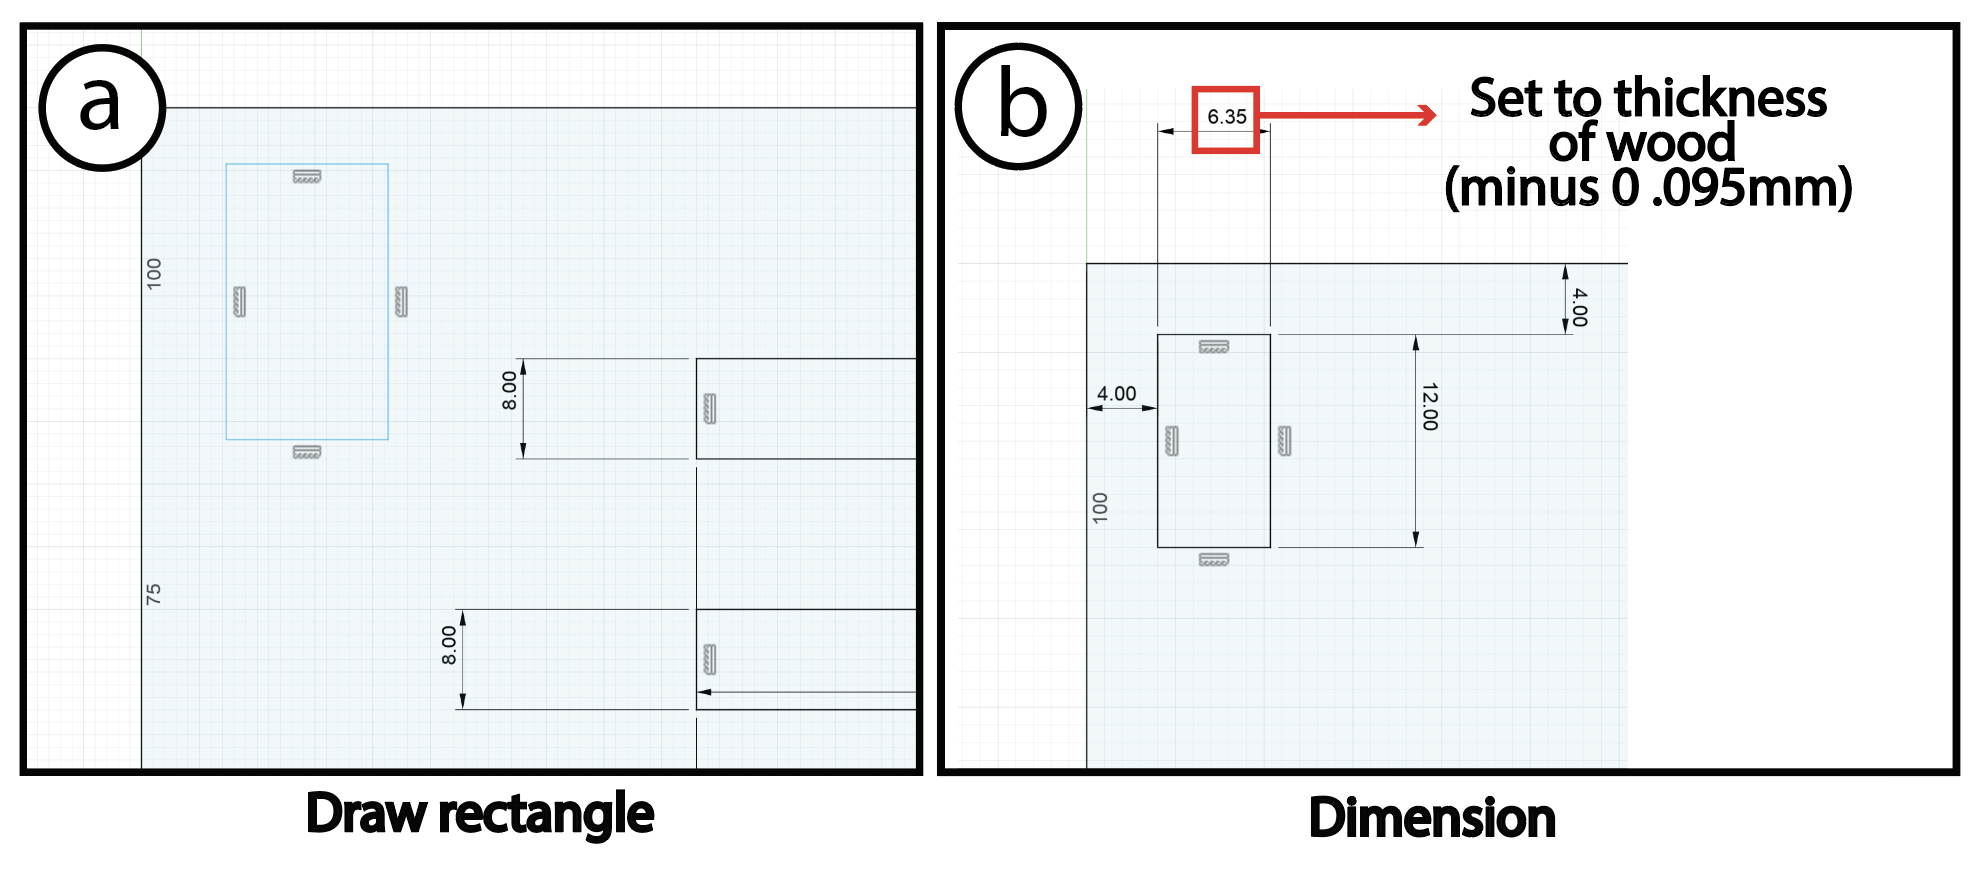
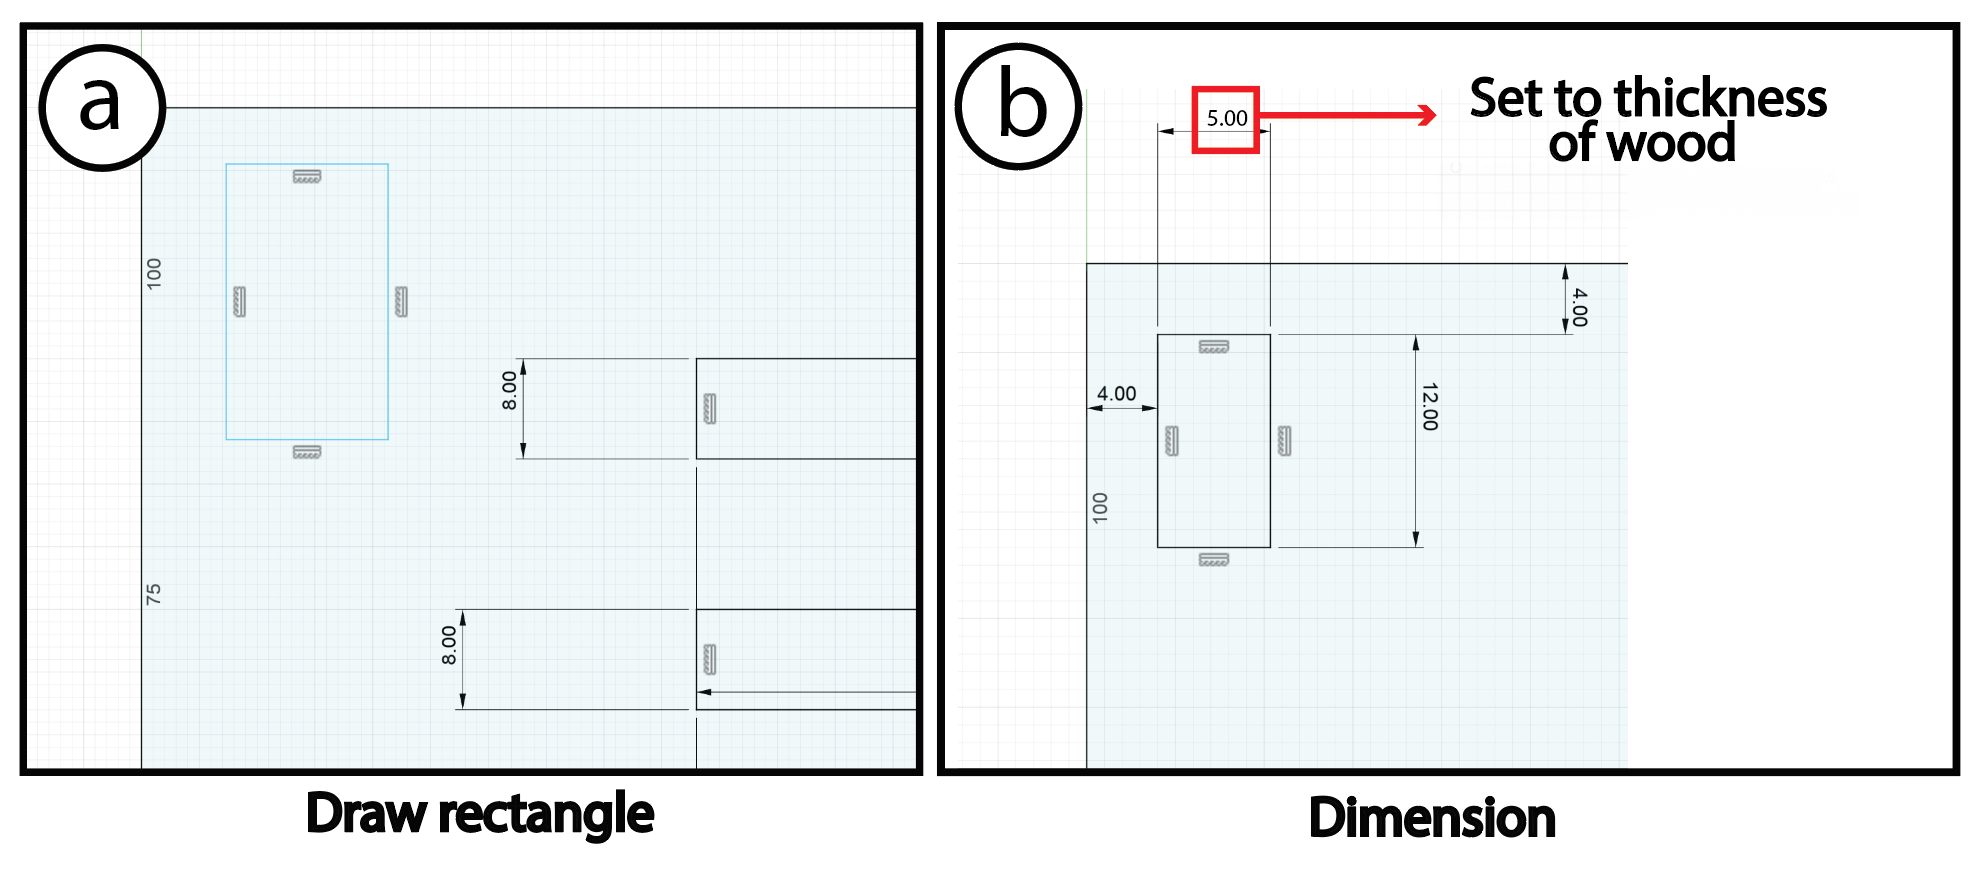
edit lab 1

Changed region(s): [[0.7093, 0.1862, 0.956, 0.2483], [0.5859, 0.0931, 0.7401, 0.1862]]

diff --git a/labs/advanced/lab1.html b/labs/advanced/lab1.html
@@ -439,7 +439,7 @@
 
         <ol>
         <li> <strong>Draw Aligenment Construction Line :</strong> Create two vertical construction lines that are 4mm away from the edge of the calendar body.</li>
-        <li><strong>Extrude the triangle :</strong> Extrude the triangle to the thickness of the wood piece provided to you. Here, we were using 0.25" wood stock.</li>
+        <li><strong>Extrude the triangle :</strong> Extrude the triangle to the thickness of the wood piece provided to you (in your lab, it will be 6mm). In the video and at MIT, we were using 0.25" wood stock.</li>
         <li><strong>Extrude the calendar body:</strong> Following the same steps above, extrude the calendar body.</li>
         <li><strong>Align the hypotenuse to the face of the calendar:</strong> Select the face created by the triangle hypotenuse, hold shift, select the calendar's face, right click on "Align".</li>
         <li><strong>Align the edge of the trinagular base to the edge of the calendar:</strong>  Select and align.</li>
@@ -472,7 +472,7 @@
             
             <strong> Click on the Plug-in :</strong> Click on the "Finger Joint" plug-in, which should be under modify in the solid tab</li>
         <li> <strong> Select the bodies :</strong> Select the two bodies, and set the direction of joint to the edge of the finger joint you created on the triangle in part (4).</li>
-        <li> <strong> Finger Settings :</strong> Set finger placement to outside, number to fixed (set to 2), size to equal notch and finger size, and gap to part to the "kerf" of your lasercutter. Here, our lasercutter kerf is 0.2mm.</li>
+        <li> <strong> Finger Settings :</strong> Set finger placement to outside, number to fixed (set to 2), size to equal notch and finger size, and gap to part to the "kerf" of your lasercutter (at AUBH, it is 0.125mm). At MIT, our lasercutter kerf was 0.2mm.</li>
         <li> <strong> Click Ok :</strong> Click Ok to create the joints.</li>
 
 
@@ -639,7 +639,7 @@
             file that we can open our DXF in it, and interface with the lasercutter. </p>
             
             <p> Your instructors will demonstrate to you what vector vs. raster files are, and how to set-up files for 
-            lasercutting. You may skip reading this scetion and just <strong> head to D-Lab. 😎</strong></p>   
+            lasercutting. You may skip reading this section and just <strong> head to D-Lab. 😎</strong></p>   
             For your future reference, we will provide some insructions below on how to create an image for "vector cutting" vs. 
             "rastering/engraving": 
             <br> 
@@ -660,7 +660,7 @@
 
             Below is a summary of what makes something cut as vector and something as raster-- we also provide some examples in the graphic below: 
             
-                                <img src=media/vector:raster.png class="rounded mx-auto d-block img-fluid"> 
+                                <img src=media/vector_raster.png class="rounded mx-auto d-block img-fluid"> 
 
                             
                 <br> 

diff --git a/labs/beginner/lab3.html b/labs/beginner/lab3.html
@@ -147,8 +147,8 @@
                     
     
                                 
-               <h4>Part (4): Sandable Epoxy  </h4>
-                    <img src=media/spray-paint-1-color.png class="rounded mx-auto d-block img-fluid"> 
+               <h4>Part (2): Sandable Epoxy  </h4>
+                    <img src=media/placeholder.png class="rounded mx-auto d-block img-fluid"> 
 
 
 
@@ -157,11 +157,31 @@
                <h4>Part (3): Spray Painting  </h4>
                     <img src=media/spray-paint-1-color.png class="rounded mx-auto d-block img-fluid"> 
 
+                
+                <ol> 
+                <li> wear the appropriate PPE (mask, goggles, lab coat, nitrile gloves etc).</li>
+                <li> If you are using the airbrush, turn it on to let it reach the appropriate air pressure.</li>
+                <li> Place a paper mat underneath your part to ensure a clean environment.</li>
+               <li> Ensure that your part is clean and doesn't have any debris on it-- you may clean with a wet towel.</li>
+               <li> Spary an even layer of primer first on all visible sides. Follow your instructor's demo on good spray painting procedure. Leave it to dry</li>
+               <li> Move your part so you spary a layer of primer  on all the remaining sides. Leave it to dry</li>
+               <li> repeat steps 5-6 but with your choice of spray paint.</li>
+
+
+                
+                </ol>
 
 
                            <hr> 
                 
                     <h4>Part (5): Masks & Spray Painting </h4>
+
+                
+                You may also be creative with your spray painting by introducing some masking techniques to spray paint select areas. 
+                To do so, export dxf masks by following the video below. You will laser cut the mask. 
+                
+                                    <img src=media/placeholder.png class="rounded mx-auto d-block img-fluid"> 
+
 
                     <img src=media/mask-pt1.png class="rounded mx-auto d-block img-fluid"> 
                     <img src=media/mask-pt2.png class="rounded mx-auto d-block img-fluid"> 
@@ -180,10 +200,24 @@
                 
                 
                 <hr> 
-        <h4>Part (5): Bondo Fillers for Smoothing (🚨REMIX🚨) (20 minutes)</h4>
+        <h4>Part (5): Bondo Fillers for Smoothing (20 minutes)</h4>
 
+                
+                
+                <hr> 
+                
+                
+                        <h4>Part (6)- EXTRA: Heating to release internal stresses (20 minutes)</h4>
         <hr> 
                 
+                
+      <h4>Part (7)- EXTRA: Coating for Food Safe Applications (20 minutes)</h4>
+
+<hr> 
+                
+                      <h4>Part (8)- EXTRA: Electroplating</h4>
+
+
                 
                 
                 

diff --git a/labs/beginner/lab1.html b/labs/beginner/lab1.html
@@ -261,7 +261,8 @@
 
 
                 <ul>
-                    <li>To add the next hole, draw another rectangle like before and dimension it to 12mm (length) by "thickness of wood-0.095mm" (width).</li>
+                    <li>To add the next hole, draw another rectangle like before and dimension it to 12mm (length) by 5mm which is the "thickness of wood" (width). Advanced Note:  for a tight fit we will be offsetting by  the "laser cutter kerf" in your lasercutter program (at AUBH, it is Lightburn).
+                    Also not that at MIT we used wood of thickness 6.35mm, which is what you might notice in the videos.</li>
                     <li>Set the distance from the top of the hole rectangle to the main rectangle as 4 mm and from the left side to be 4 mm too.</li>
                 </ul>
                 <br>
@@ -579,7 +580,7 @@
 
             Below is a summary of what makes something cut as vector and something as raster-- we also provide some examples in the graphic below: 
             
-                                <img src=media/vector:raster.png class="rounded mx-auto d-block img-fluid"> 
+                                <img src=media/vector_raster.png class="rounded mx-auto d-block img-fluid"> 
 
                             
                 <br> 
